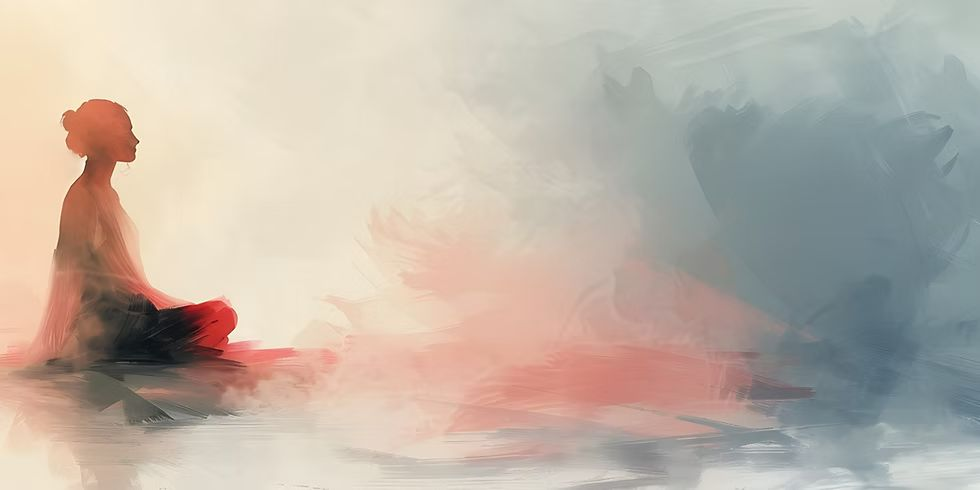
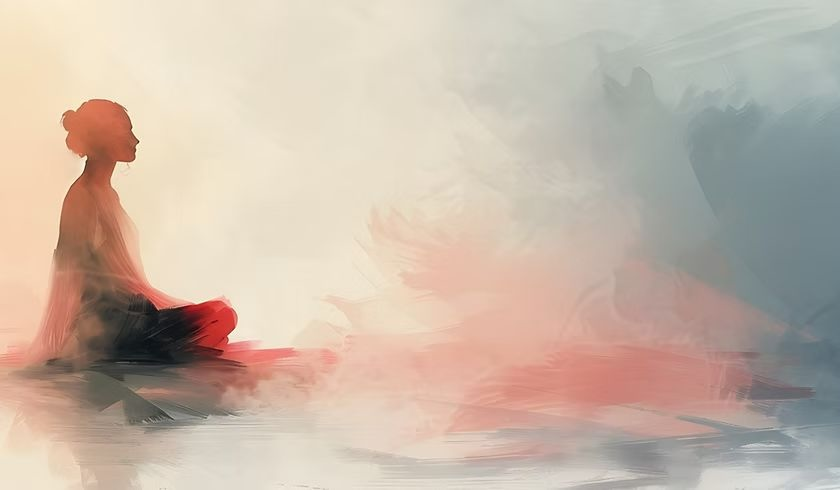
q

diff --git a/index.html b/index.html
@@ -402,7 +402,7 @@ a { text-decoration: none; color: inherit; }
 .with-animated-lines { position: relative; overflow: hidden; }
 .decor-line { position: absolute; left: 0; width: 100%; pointer-events: none; z-index: 0; }
 .decor-line.top { top: 10px; }
-.decor-line.bottom { bottom: 10px; }
+.decor-line.bottom { bottom: 70px; }
 .smooth-path { fill: none; stroke-linecap: round; will-change: stroke-dashoffset; transition: stroke-dashoffset 2s cubic-bezier(0.25, 1, 0.5, 1); }
 .with-animated-lines.is-visible .smooth-path { stroke-dashoffset: 0 !important; }
 
@@ -462,7 +462,7 @@ a { text-decoration: none; color: inherit; }
 .philosophy-content p { 
     font-size: 18px; 
     color: var(--text-muted); 
-    margin-bottom: 24px; 
+    margin-bottom: 38px; 
     line-height: 1.6; 
 }
 
@@ -543,6 +543,63 @@ a { text-decoration: none; color: inherit; }
 
 
 
+/* --- ГЛОБАЛЬНІ МОБІЛЬНІ ПРАВКИ --- */
+@media (max-width: 767px) {
+    /* 1. Зменшуємо загальний масштаб на 5-10% */
+    html {
+        font-size: 92%; 
+    }
+    
+    /* 2. Додатковий відступ знизу, щоб меню не накладалося на текст */
+    body.menu-open {
+        overflow: hidden; /* Блокує скрол основної сторінки, коли відкрите меню/панель */
+    }
+}
+
+/* --- ПРАВКИ МОДАЛЬНОГО ВІКНА (ОПЛАТА) --- */
+.payment-card {
+    width: 92%;
+    max-width: 480px;
+    max-height: 90vh; /* Обмежуємо висоту, щоб не вилазило за екран */
+    overflow-y: auto; /* Додаємо внутрішній скрол, якщо екран дуже маленький */
+    padding: 32px 24px; /* Трохи менші відступи для мобільного */
+}
+
+/* Дозволяємо довгому тексту (IBAN) переноситися, щоб не ламати екран */
+.iban-row {
+    flex-wrap: wrap;
+    gap: 12px;
+}
+.iban-row > div:first-child {
+    word-break: break-all; /* Ключова правка для телефонів */
+    font-size: 14px !important; 
+}
+
+
+
+
+
+
+.scroll-indicator {
+    margin-top: 48px; /* Даємо їй трохи більше простору від кнопки */
+    color: #888888; /* М'який сірий колір, щоб вона не кричала */
+    animation: breatheDown 3s infinite ease-in-out;
+    display: flex;
+    justify-content: center;
+}
+
+@keyframes breatheDown {
+    0%, 100% { 
+        transform: translateY(0); 
+        opacity: 0.2; /* У верхній точці вона трохи прозоріша */
+    }
+    50% { 
+        transform: translateY(10px); /* М'яко опускається на 10px */
+        opacity: 0.59; /* Стає чіткішою */
+    }
+}
+
+
     </style>
 
     <!-- Calendly widget -->
@@ -588,10 +645,16 @@ a { text-decoration: none; color: inherit; }
 
             <span class="label" style="justify-content: center;"> Практики &middot; РОБОТА ЗІ СНАМИ &middot; Глибинний аналіз </span>
             <h1 class="drift-text">Локус <i>УЯВИ</i> <br></h1>
-            <p>Де хаос перетворюється на структуру, а уява стає твердою точкою опори в повсякденні. Це простір для тих, хто готовий почути мову власної підсвідомості. Від швидкого відновлення рівноваги до глибокого дослідження сновидінь та патернів, що непомітно керують вашим життям. </p>
+            <p>Де хаос перетворюється на структуру, а уява стає твердою точкою опори в повсякденні. Це простір для тих, хто шукає вихід із замкненого кола, прагне зрозуміти мову свого підсвідомого і готовий до справжньої зустрічі із собою. </p>
             <div style="display: flex; gap: 16px; justify-content: center;">
                 <a href="#formats" class="btn btn-dark">Обрати вимір &rarr;</a>
             </div>
+
+            <div class="scroll-indicator">
+    <svg width="12" height="50" viewBox="0 0 12 50" fill="none" stroke="currentColor" stroke-width="1" stroke-linecap="round" stroke-linejoin="round">
+        <path d="M6 0v48M1 43l5 5 5-5"/>
+    </svg>
+</div>
         </section>
 
 
@@ -608,8 +671,11 @@ a { text-decoration: none; color: inherit; }
   <div class="philosophy-content">
     <span class="label center" style="justify-content: center;">✧ ФІЛОСОФІЯ ПРОСТОРУ</span>
     <h2>Символи та стани – це мова нашої психіки.</h2>
-    <p>Тривога, внутрішні конфлікти або яскраві сновидіння не виникають випадково. Це спроби нашої підсвідомості вийти на зв'язок і вказати на те, що потребує уваги. Філософія "Локусу Уяви" полягає в тому, щоб перестати ігнорувати цей голос. Ми створюємо надійний простір, де ви можете безпечно вивчити свої глибинні мотиви та знайти в них джерело сили, а не загрозу.</p>
-  
+
+   <p> Тривога, внутрішні конфлікти або яскраві сновидіння не виникають випадково. Це спроби нашого несвідомого вийти на зв'язок і вказати на те, що потребує уваги. Філософія «Локусу Уяви» полягає в тому, щоб перестати ігнорувати цей голос і перетворити його на джерело вашої внутрішньої сили.
+
+     <br>   Головна мета цієї роботи – ваша цілісність. Відчуття глибокої опори, розуміння, що з вами все гаразд, і здатність впевнено зустрічати реальність – так, щоб у ній завжди залишалося місце для ваших бажань, радості та розвитку. </p>
+
 </div>
 
   <!-- Нижня лінія -->
@@ -760,25 +826,29 @@ a { text-decoration: none; color: inherit; }
 
 
 
-        <!-- Секція Курсу -->
+       <!-- Секція Курсу -->
 <section id="course" class="course-section" >
     <div class="course-card">
         <!-- Ліва частина з текстом -->
         <div>
             <div class="course-badge">Курс у розробці</div>
             <h2 class="drift-text">Архітектура<br><i>Самості</i></h2>
-            <p>Юнг називав це індивідуацією. Гурджієв — набуттям Внутрішнього Хазяїна. Роджерс — самоактуалізацією. Ви можете називати це як завгодно, але суть незмінна: ніхто не пройде цей шлях за вас.</p>
+            <p>Юнг називав це індивідуацією. Гурджієв – набуттям Внутрішнього Хазяїна. Роджерс – самоактуалізацією. Ви можете називати це як завгодно, але суть незмінна: ніхто не пройде цей шлях за вас.</p>
             <p>Це фундаментальний модульний курс із глибинного самодослідження. Концентрат перевірених практик для тих, хто втратив орієнтири і готовий докласти зусиль, щоб віднайти власну внутрішню опору.</p>
         </div>
         
-        <!-- Права частина з формою -->
-        <div class="waitlist-box">
+        <!-- Права частина з кнопками -->
+        <div class="waitlist-box" style="display: flex; flex-direction: column; justify-content: center;">
             <span class="label" style="margin-bottom: 16px; color: #888;">СПИСОК ОЧІКУВАННЯ</span>
-            <form class="waitlist-form" onsubmit="event.preventDefault();">
-                <input type="email" class="waitlist-input" placeholder="[email redacted]" required>
-                <button type="submit" class="btn btn-dark" style="width: 100%;">Доєднатися &rarr;</button>
-            </form>
-            <p>Ми напишемо, щойно відкриється перший потік. Без спаму.</p>
+            <p style="font-size: 14px; margin-bottom: 24px; color: var(--text-dark);">Залиште свої контакти, щоб першими дізнатися про старт. Або напишіть мені, якщо маєте запитання щодо формату.</p>
+            
+            <div style="display: flex; flex-direction: column; gap: 12px;">
+                <!-- Головна кнопка: Викликає поп-ап Tally -->
+                <button class="btn btn-dark" onclick="Tally.openPopup('yPprxp', { layout: 'modal', width: 500, overlay: 'rgba(0,0,0,0.6)' }); return false;" style="width: 100%;">Мені цікаво! &rarr;</button>
+                
+                <!-- Другорядна кнопка: Посилання на ваш Telegram/Instagram -->
+                <a href="https://t.me/ВАШ_ТЕЛЕГРАМ" target="_blank" class="btn btn-outline" style="width: 100%; text-align: center; text-decoration: none;">Написати в дірект</a>
+            </div>
         </div>
     </div>
 </section>
@@ -995,7 +1065,7 @@ a { text-decoration: none; color: inherit; }
     <div class="final-cta-card draw-line">
         <span class="label" style="justify-content: center;">✧ ЗАЛИШАЄМОСЬ НА ЗВ'ЯЗКУ</span>
         <h2 class="drift-text">Простір для <i>роздумів.</i></h2>
-        <p>Робота з підсвідомим потребує часу та внутрішньої готовності. Якщо ви ще не обрали формат, який підходить вам саме зараз, але хочете бути на звʼязку – приєднуйтесь до мого Instagram або Telegram-каналу. Там я ділюся новинами, дієвими практиками, есеями та думками. Усім тим, що допомагає відновити зв'язок із власною Самістю — тим внутрішнім центром, який завжди залишається неушкодженим і прагне до цілісності.</p>
+        <p>Робота з підсвідомим потребує часу та внутрішньої готовності. Якщо ви ще не обрали формат, який підходить вам саме зараз, але хочете бути на звʼязку – приєднуйтесь до мого Instagram або Telegram-каналу. Там я ділюся новинами, дієвими практиками, есеями та думками. Усім тим, що допомагає відновити зв'язок із власною Самістю – тим внутрішнім центром, який завжди залишається неушкодженим і прагне до цілісності.</p>
         
         <div class="cta-buttons">
     <!-- Telegram: Темна кнопка з іконкою та текстом -->
@@ -1375,18 +1445,34 @@ document.addEventListener("DOMContentLoaded", () => {
         } else { 
             // ВАРІАНТ IBAN (Оплата послуг + Telegram)
             contentBox.innerHTML = `
-                <div class="iban-box" style="background: var(--bg-card); padding: 24px; border-radius: 16px; margin: 24px 0; border: 1px solid #EAEAEA; text-align: left;">
-                    <span style="display: block; font-size: 11px; color: var(--text-muted); text-transform: uppercase; letter-spacing: 0.1em; margin-bottom: 4px;">Отримувач</span>
-                    <div style="font-weight: 500; font-size: 15px; margin-bottom: 16px; color: var(--text-dark);">Крутько Сергій</div>
-                    <span style="display: block; font-size: 11px; color: var(--text-muted); text-transform: uppercase; letter-spacing: 0.1em;">За реквізитами IBAN:</span>
-                    <div class="iban-row" style="display: flex; justify-content: space-between; align-items: flex-end; margin-top: 8px; flex-wrap: wrap; gap: 12px;">
-                        <div style="font-family: monospace; font-size: 15px; font-weight: 600; color: var(--text-dark);">UA583 2200 1000 0026 0013 5004 9607</div>
-                        <button class="copy-btn" id="copy-btn" onclick="copyIBAN()" style="background: none; border: none; font-family: var(--font-sans); font-size: 12px; font-weight: 600; color: var(--accent-green); cursor: pointer; display: flex; align-items: center; gap: 6px; padding: 0; text-transform: uppercase; letter-spacing: 0.05em;">
-                            <svg width="14" height="14" viewBox="0 0 24 24" fill="none" stroke="currentColor" stroke-width="2" stroke-linecap="round" stroke-linejoin="round"><rect x="9" y="9" width="13" height="13" rx="2" ry="2"></rect><path d="M5 15H4a2 2 0 0 1-2-2V4a2 2 0 0 1 2-2h9a2 2 0 0 1 2 2v1"></path></svg>
-                            <span>Копіювати</span>
-                        </button>
-                    </div>
-                </div>
+                
+
+
+
+                        <div class="iban-box" style="background: var(--bg-card); padding: 24px; border-radius: 16px; margin: 24px 0; border: 1px solid #EAEAEA; text-align: left;">
+            
+            <span style="display: block; font-size: 11px; color: var(--text-muted); text-transform: uppercase; letter-spacing: 0.1em; margin-bottom: 4px;">Отримувач</span>
+            <div style="font-weight: 500; font-size: 15px; margin-bottom: 16px; color: var(--text-dark);">Крутько Сергій</div>
+            
+            <!-- НОВИЙ БЛОК: Призначення платежу -->
+            <span style="display: block; font-size: 11px; color: var(--text-muted); text-transform: uppercase; letter-spacing: 0.1em; margin-bottom: 4px;">Призначення платежу</span>
+            <div style="font-weight: 500; font-size: 15px; margin-bottom: 16px; color: var(--text-dark);">Оплата за консультацію</div>
+            
+            <span style="display: block; font-size: 11px; color: var(--text-muted); text-transform: uppercase; letter-spacing: 0.1em;">За реквізитами IBAN:</span>
+            <div class="iban-row" style="display: flex; justify-content: space-between; align-items: flex-end; margin-top: 8px; flex-wrap: wrap; gap: 12px;">
+                <div style="font-family: monospace; font-size: 15px; font-weight: 600; color: var(--text-dark); word-break: break-all;">UA583 2200 1000 0026 0013 5004 9607</div>
+                <button class="copy-btn" id="copy-btn" onclick="copyIBAN()" style="background: none; border: none; font-family: var(--font-sans); font-size: 12px; font-weight: 600; color: var(--accent-green); cursor: pointer; display: flex; align-items: center; gap: 6px; padding: 0; text-transform: uppercase; letter-spacing: 0.05em;">
+                    <svg width="14" height="14" viewBox="0 0 24 24" fill="none" stroke="currentColor" stroke-width="2" stroke-linecap="round" stroke-linejoin="round"><rect x="9" y="9" width="13" height="13" rx="2" ry="2"></rect><path d="M5 15H4a2 2 0 0 1-2-2V4a2 2 0 0 1 2-2h9a2 2 0 0 1 2 2v1"></path></svg>
+                    <span>Копіювати</span>
+                </button>
+            </div>
+        </div>
+
+
+
+
+
+
                 <p style="font-size: 13px; color: var(--text-muted); margin-bottom: 24px;">Після оплати, будь ласка, просто напишіть мені, щоб я підтвердив надходження.</p>
                 <a href="https://t.me/ВАШ_ТЕЛЕГРАМ" class="btn btn-dark" target="_blank" style="width: 100%;">Написати в Telegram &rarr;</a>
             `;
@@ -1410,6 +1496,12 @@ document.addEventListener("DOMContentLoaded", () => {
         }
     });
 </script>
+
+
+
+<!-- Скрипт для форм Tally -->
+<script async src="https://tally.so/widgets/embed.js"></script>
+
 
 
 </body>

diff --git a/content.js b/content.js
@@ -89,8 +89,11 @@ const myContent = {
         { type: "line", color: "green" },
         
         { type: "h3", text: "З чим можна прийти" },
-        { type: "text", text: "Абсолютно з будь-чим. Немає «недостатньо серйозних» приводів. Ви можете принести гостру тривогу перед важливою розмовою, неконтрольовану лють, розгубленість, або думку, яка здається дріб'язком, але чомусь не дає спокою. Сюди можна прийти навіть із нестримною гіперрадістю, яку важко вмістити в собі. Ваш стан просто зараз – це єдине, що має значення. Можна говорити без зупину, а можна просто помовчати у безпечному просторі." },
-        
+    // Перший абзац: залишаємо вашу улюблену живу частину без змін
+    { type: "text", text: "Абсолютно з будь-чим. Немає «недостатньо серйозних» приводів. Ви можете принести гостру тривогу перед важливою розмовою, неконтрольовану лють, розгубленість, або думку, яка здається дріб'язком, але чомусь не дає спокою. Сюди можна прийти навіть із нестримною гіперрадістю, яку важко вмістити в собі. Ваш стан просто зараз – це єдине, що має значення." },
+    
+    // Другий абзац: плавно інтегруємо опору на науку та фідбек
+    { type: "text", text: "Багато станів та переживань, які здаються нам унікальним тягарем, вже давно досліджені наукою. Знати, як саме називається те, що ви проживаєте, і розуміти, що ви у цьому не самі це <strong>величезний крок до полегшення</strong>. Тут можна отримати професійний фідбек, говорити без зупину або просто помовчати у безпечному просторі." },
         { type: "card", color: "photo", content: [
             { type: "h3", text: "Що наповнює ці 15 хвилин" },
             { type: "list", items: [